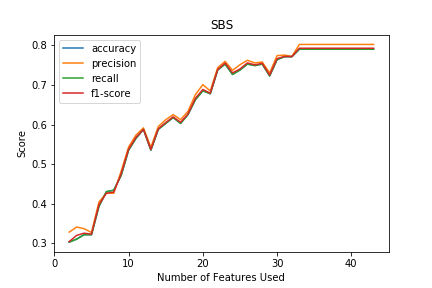
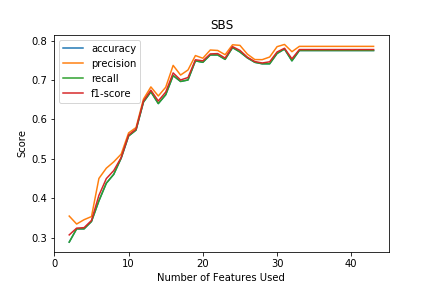
Final push for all randomforest

diff --git a/randomForest.py b/randomForest.py
@@ -5,7 +5,7 @@ import matplotlib.pyplot as plt
 from sklearn.impute import SimpleImputer
 from sklearn.model_selection import train_test_split, GridSearchCV, cross_val_score
 from sklearn.preprocessing import StandardScaler, Normalizer, MinMaxScaler, MaxAbsScaler
-from sklearn.metrics import classification_report, accuracy_score, precision_score, recall_score, f1_score
+from sklearn.metrics import confusion_matrix, classification_report, accuracy_score, precision_score, recall_score, f1_score
 from sklearn.svm import SVC
 from sklearn.ensemble import RandomForestClassifier
 from sklearn.utils import resample
@@ -16,6 +16,8 @@ from sklearn.ensemble import RandomForestClassifier
 from collections import Counter
 
 from imblearn.over_sampling import SMOTE
+
+from confusion_matrix import plot_confusion_matrix
 
 import sys
 
@@ -48,7 +50,7 @@ y = df['scores']
 
 #https://machinelearningmastery.com/multi-class-imbalanced-classification/
 #Get rid of class imbalance in the target feature by oversampling
-oversample = SMOTE(random_state=0)
+oversample = SMOTE(random_state=1)
 X, y = oversample.fit_resample(X, y)
 
 
@@ -118,12 +120,12 @@ X_test_lda = lda.transform(X_test_norm)
 
 #Grid search to determine which hyper parameters are best
 '''
-param_range = [90]
+param_range = [150]
 
 
 param_grid = [{'n_estimators':param_range,
                'criterion':['gini'],
-               'max_depth':range(10,11),
+               'max_depth':range(17,18),
                'random_state':range(0,150)}]
 
 
@@ -151,11 +153,11 @@ scores = cross_val_score(gs, X_train, y_train,
                         scoring='accuracy', cv=5)
 
 print("\n\nCV Accuracy: %.3f +/- %.3f" % (np.mean(scores), np.std(scores)))
-'''
 
+'''
 # Hyper parameters determined from previous grid search
-rf = RandomForestClassifier(n_estimators = 90, criterion = 'gini', 
-                            max_depth = 13, random_state = 6)
+rf = RandomForestClassifier(n_estimators = 150, criterion = 'gini', 
+                            max_depth = 17, random_state = 121)
 
 #Calculate accuracy, precision, recall, and f1-score using each RF and SBS feature selection
 num_features = list(range(2, 44))
@@ -211,4 +213,35 @@ for name, features in zip(["RF", "SBS"], [rf_features, sbs_features]):
     plt.legend()
     plt.savefig(name+"_fs_metrics_randomforest.png")
     plt.show()
-    
+   
+#Create final model and confusion matrix
+X_train_new = X_train[X_train.columns.intersection(rf_features)]
+X_test_new = X_test[X_test.columns.intersection(rf_features)]
+
+X_train_std = stdsc.fit_transform(X_train_new)
+X_test_std = stdsc.transform(X_test_new)
+
+rf.fit(X_train_std, y_train)
+y_pred = rf.predict(X_test_std)
+
+print("Metrics for final model:\n\n")
+
+accuracy = accuracy_score(y_pred, y_test)
+precision = precision_score(y_pred, y_test, average='weighted')
+recall = recall_score(y_pred, y_test, average='weighted')
+f1 = f1_score(y_pred, y_test, average='weighted')
+
+print("Accuracy:", accuracy)
+print("Precision:", precision)
+print("Recall:", recall)
+print("F1-Score:", f1)
+
+
+cnf_matrix = confusion_matrix(y_test, y_pred, labels=list(range(5)))
+np.set_printoptions(precision=2)
+
+plt.figure()
+plot_confusion_matrix(cnf_matrix, classes=['F', 'D', 'C', 'B', 'A'], title='Random Forest Confusion Matrix')
+plt.savefig('confusion_matrix_randomforest.png')
+plt.show()
+
